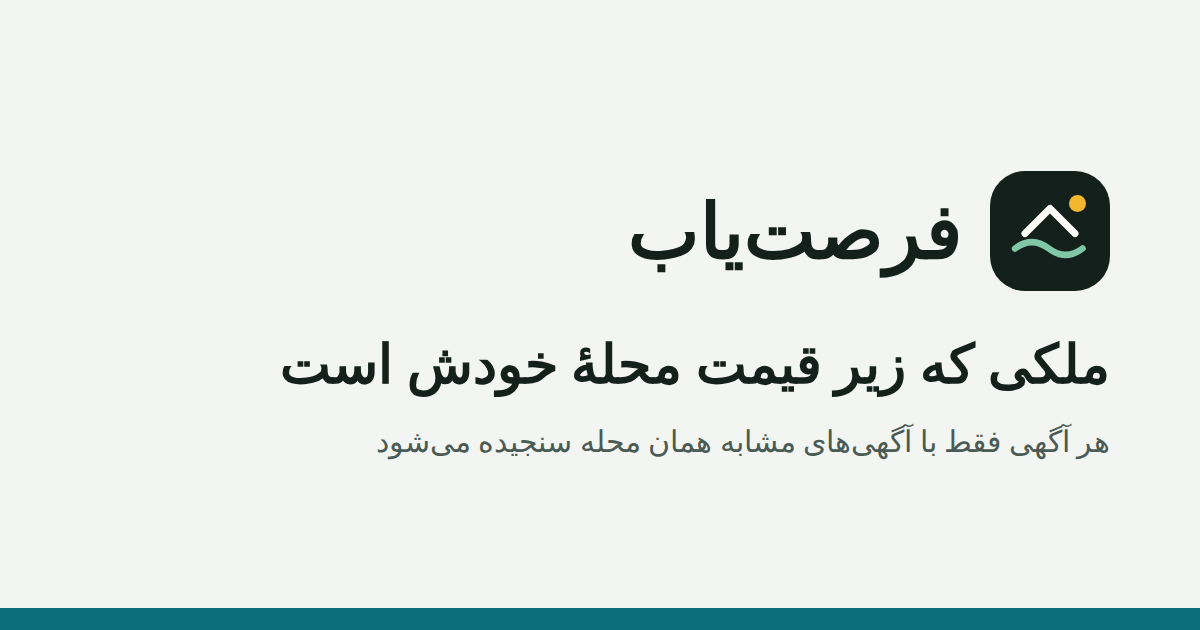
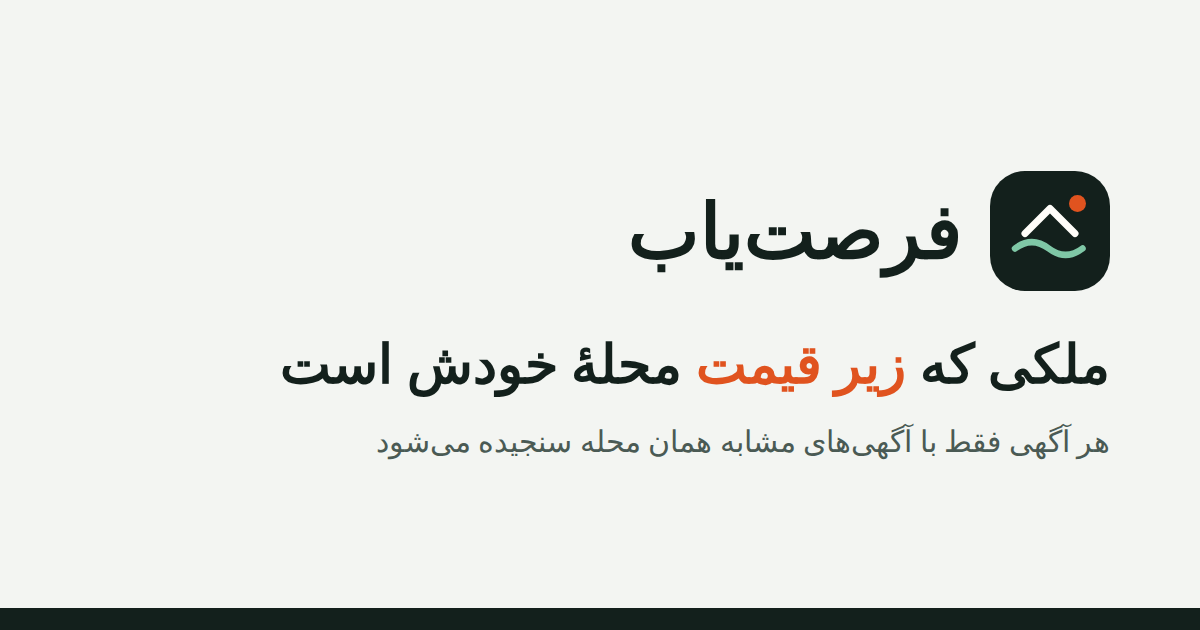
بازگشت رنگ نارنجی گرم برای «زیر قیمت»، دکمههای اصلی و نقطهٔ لوگو (جلب توجه)، روی همان زمینهٔ سنگی خنک؛ زعفرانی فقط برای برچسب فرصت طلایی
Claude-Session: https://claude.ai/code/session_01KKj2fgjXQ9aW6joweZhZpV

Changed region(s): [[0.0, 0.9651, 1.0, 1.0], [0.5858, 0.5429, 0.7708, 0.6333], [0.8942, 0.3016, 0.925, 0.3317]]

diff --git a/assets/css/style.css b/assets/css/style.css
@@ -8,11 +8,11 @@
   font-weight: 100 900; font-style: normal; font-display: swap;
 }
 :root {
-  /* سنگ خنک، جوهر، سبز برند، فیروزهای برای کنشها و زعفرانی برای فرصتها */
+  /* سنگ خنک، جوهر، سبز برند؛ نارنجی گرم برای کنش و «زیر قیمت» (جلب توجه)، زعفرانی برای فرصت طلایی */
   --paper: #f3f5f2; --paper-2: #e8ece6; --surface: #ffffff; --sunk: #edf1eb;
   --ink: #12211d; --ink-2: #3d4b45; --muted: #69766f; --line: #dbe1d8; --line-2: #c7cfc4;
   --forest: #1d4a3c; --forest-2: #2c6a55; --moss: #e0ebe4;
-  --narenj: #0b6f79; --narenj-2: #08585f; --narenj-soft: #dbeef0;
+  --narenj: #e0531f; --narenj-2: #c0410f; --narenj-soft: #fde6db;
   --sea: #2a6d8c; --sea-soft: #dcebf1; --gold: #a87a10;
   --great: #17784a; --good: #4c9a5c; --fair: #8b8f86; --high: #c97a1f; --over: #bf3a2b;
   --sale: #1d4a3c; --rent: #6d3fb4; --daily: #c8366b;
@@ -30,7 +30,7 @@
   --paper: #0d1311; --paper-2: #121a17; --surface: #151e1b; --sunk: #101714;
   --ink: #ece6da; --ink-2: #b7c0b9; --muted: #838d86; --line: #243029; --line-2: #2f3d36;
   --forest: #7fc7a6; --forest-2: #9bd8bb; --moss: #1b2a24;
-  --narenj: #4fc0c9; --narenj-2: #7ad3da; --narenj-soft: #11302f;
+  --narenj: #f07a4b; --narenj-2: #ff9468; --narenj-soft: #3a2018;
   --sea: #6cb4d4; --sea-soft: #13262e; --sale: #7fc7a6; --rent: #b293ea; --daily: #f07aa3;
   --on-dark: #0d1311;
   --shadow-2: 0 2px 4px rgba(0,0,0,.3), 0 12px 32px -12px rgba(0,0,0,.6);
@@ -136,7 +136,7 @@ p { margin: 0; }
 .hero { position: relative; padding: 48px 0 0; overflow: clip; }
 .hero__grid { position: relative; z-index: 2; display: grid; grid-template-columns: minmax(0, 1.25fr) minmax(0, .9fr); gap: 48px; align-items: center; }
 .hero h1 { font-size: clamp(34px, 4.3vw, 64px); font-weight: 900; line-height: 1.18; margin: 16px 0 18px; text-wrap: balance; }
-.hero h1 .accent { color: inherit; }
+.hero h1 .accent { color: var(--narenj); }
 .hero h1 .soft { color: var(--forest); }
 .hero__lead { font-size: 17px; color: var(--ink-2); max-width: 560px; }
 .search-card { margin-top: 28px; background: var(--surface); border-radius: var(--r-xl); box-shadow: var(--shadow-3); border: 1px solid var(--line); padding: 10px; }
@@ -216,7 +216,7 @@ p { margin: 0; }
 .card__fav { position: absolute; top: 10px; inset-inline-end: 10px; width: 38px; height: 38px; border-radius: 50%; background: rgba(255,253,249,.92); display: grid; place-items: center; color: #13201c; transition: transform .2s; z-index: 2; }
 .card__fav svg { width: 19px; height: 19px; }
 @media (hover: hover) { .card__fav:hover { transform: scale(1.1); } }
-.card__fav.is-on { color: #0b6f79; }
+.card__fav.is-on { color: #e0531f; }
 .card__fav.is-on svg { fill: currentColor; }
 .card__body { padding: 16px 18px 14px; display: flex; flex-direction: column; gap: 4px; flex: 1; }
 .card__price { display: flex; align-items: baseline; gap: 6px; flex-wrap: wrap; }
@@ -290,7 +290,7 @@ p { margin: 0; }
 .pin--car { border-color: var(--sea); } .pin--car::after { border-top-color: var(--sea); }
 .is-hot .pin { background: var(--ink); color: var(--paper); transform: translate(-50%, -100%) scale(1.15); }
 .cluster { display: inline-flex; align-items: center; gap: 6px; transform: translate(-50%, -50%); white-space: nowrap; background: #13201c; color: #fffdf9; border-radius: 999px; padding: 4px 14px 4px 4px; font: 700 12.5px Vazirmatn, sans-serif; box-shadow: 0 0 0 5px rgba(19,32,28,.16), 0 6px 16px rgba(0,0,0,.25); cursor: pointer; transition: transform .15s; }
-.cluster b { background: #0b6f79; color: #fff; border-radius: 999px; min-width: 26px; height: 26px; display: grid; place-items: center; padding: 0 7px; }
+.cluster b { background: #e0531f; color: #fff; border-radius: 999px; min-width: 26px; height: 26px; display: grid; place-items: center; padding: 0 7px; }
 @media (hover: hover) { .cluster:hover { transform: translate(-50%, -50%) scale(1.07); } }
 
 /* ---------- صفحه آگهی ---------- */
@@ -377,12 +377,12 @@ p { margin: 0; }
 .broker { display: grid; grid-template-columns: 1.1fr 1fr; gap: 56px; align-items: center; }
 .broker h2 { font-size: clamp(28px, 3.4vw, 46px); font-weight: 900; margin: 12px 0 14px; }
 .broker > div > p { color: rgba(255,253,249,.75); font-size: 16px; }
-.broker .kicker { color: #7fd3d9; }
+.broker .kicker { color: #ff9a70; }
 .broker__cta { display: flex; gap: 10px; flex-wrap: wrap; margin-top: 26px; }
 .broker__cta .btn--line { background: transparent; color: #fffdf9; border-color: rgba(255,255,255,.3); }
 .steps { list-style: none; padding: 0; margin: 0; display: grid; gap: 12px; counter-reset: s; }
 .steps li { counter-increment: s; display: grid; grid-template-columns: 48px 1fr; gap: 14px; align-items: center; padding: 16px; background: rgba(255,255,255,.05); border-radius: var(--r-lg); border: 1px solid rgba(255,255,255,.08); }
-.steps li::before { content: counter(s, persian); width: 48px; height: 48px; border-radius: 50%; background: #0b6f79; color: #fff; display: grid; place-items: center; font-weight: 900; font-size: 19px; }
+.steps li::before { content: counter(s, persian); width: 48px; height: 48px; border-radius: 50%; background: #e0531f; color: #fff; display: grid; place-items: center; font-weight: 900; font-size: 19px; }
 .steps b { display: block; font-size: 15.5px; }
 .steps span { font-size: 13.5px; color: rgba(255,253,249,.7); }
 

diff --git a/assets/js/admin.js b/assets/js/admin.js
@@ -26,7 +26,7 @@
     catch { $("#root").innerHTML = `<div class="login"><div class="panel" style="max-width:520px"><h2>پنل مدیریت فقط با سرور محلی کار میکند</h2><p class="muted">فایل <b>start-windows.bat</b> (ویندوز) یا <b>start-mac-linux.sh</b> را اجرا کنید؛ سپس نشانی <code>http://127.0.0.1:8000/admin.html</code> باز میشود.</p></div></div>`; return; }
     const setup = !cfg.admin_ready;
     $("#root").innerHTML = `<div class="login"><form id="lf">
-      <div class="brand"><svg class="brand__mark" viewBox="0 0 48 48"><rect width="48" height="48" rx="14" fill="#13201c"/><path d="M10 31c4.5-3.4 9-3.4 13.5 0s9 3.4 13.5 0" stroke="#7fc7a6" stroke-width="2.6" fill="none" stroke-linecap="round"/><path d="M14 25l10-10 10 10" stroke="#fffdf9" stroke-width="2.8" fill="none" stroke-linecap="round" stroke-linejoin="round"/><circle cx="35" cy="13" r="3.4" fill="#f2b72f"/></svg><span class="brand__txt"><b>پنل مدیریت</b><small>${esc(cfg.site.name)}</small></span></div>
+      <div class="brand"><svg class="brand__mark" viewBox="0 0 48 48"><rect width="48" height="48" rx="14" fill="#13201c"/><path d="M10 31c4.5-3.4 9-3.4 13.5 0s9 3.4 13.5 0" stroke="#7fc7a6" stroke-width="2.6" fill="none" stroke-linecap="round"/><path d="M14 25l10-10 10 10" stroke="#fffdf9" stroke-width="2.8" fill="none" stroke-linecap="round" stroke-linejoin="round"/><circle cx="35" cy="13" r="3.4" fill="#e0531f"/></svg><span class="brand__txt"><b>پنل مدیریت</b><small>${esc(cfg.site.name)}</small></span></div>
       <h2 style="font-size:20px">${setup ? "تعیین رمز مدیر" : "ورود"}</h2>
       ${setup ? '<p class="muted small">اولین ورود است. رمزی دستکم ۶ نویسه انتخاب کنید و آن را جایی نگه دارید.</p>' : ""}
       <input class="input" type="password" name="pw" placeholder="رمز" required minlength="6" autocomplete="${setup ? "new-password" : "current-password"}">
@@ -53,7 +53,7 @@
     try { S = await api("admin/state"); } catch (e) { if (e.message !== "401") toast(e.message); return; }
     $("#root").innerHTML = `<div class="adm">
       <aside class="side">
-        <a class="brand" href="./" target="_blank"><svg class="brand__mark" viewBox="0 0 48 48"><rect width="48" height="48" rx="14" fill="#fffdf9" fill-opacity=".08"/><path d="M10 31c4.5-3.4 9-3.4 13.5 0s9 3.4 13.5 0" stroke="#7fc7a6" stroke-width="2.6" fill="none" stroke-linecap="round"/><path d="M14 25l10-10 10 10" stroke="#fffdf9" stroke-width="2.8" fill="none" stroke-linecap="round" stroke-linejoin="round"/><circle cx="35" cy="13" r="3.4" fill="#f2b72f"/></svg><span class="brand__txt"><b>${esc(S.site.name)}</b><small>پنل مدیریت</small></span></a>
+        <a class="brand" href="./" target="_blank"><svg class="brand__mark" viewBox="0 0 48 48"><rect width="48" height="48" rx="14" fill="#fffdf9" fill-opacity=".08"/><path d="M10 31c4.5-3.4 9-3.4 13.5 0s9 3.4 13.5 0" stroke="#7fc7a6" stroke-width="2.6" fill="none" stroke-linecap="round"/><path d="M14 25l10-10 10 10" stroke="#fffdf9" stroke-width="2.8" fill="none" stroke-linecap="round" stroke-linejoin="round"/><circle cx="35" cy="13" r="3.4" fill="#e0531f"/></svg><span class="brand__txt"><b>${esc(S.site.name)}</b><small>پنل مدیریت</small></span></a>
         ${TABS.map(([k, n]) => `<button data-tab="${k}" class="${tab === k ? "is-on" : ""}">${n}${k === "excluded" && S.stats.excluded ? `<span class="badge">${fa(S.stats.excluded)}</span>` : ""}${k === "support" && S.tickets_unread ? `<span class="badge">${fa(S.tickets_unread)}</span>` : ""}</button>`).join("")}
         <div class="side__foot"><a href="./" target="_blank">مشاهده سایت ↗</a><a href="#" id="logout">خروج</a></div>
       </aside>

diff --git a/assets/js/ui.js b/assets/js/ui.js
@@ -91,7 +91,7 @@ const UI = (() => {
     else if (k === "apartment" || k === "office") obj = `<g transform="translate(150 40)"><rect width="100" height="162" rx="4" fill="#fffdf9"/>${Array.from({ length: 6 }, (_, r) => [0, 1, 2].map((c) => `<rect x="${12 + c * 28}" y="${12 + r * 24}" width="20" height="14" rx="2" fill="${(r + c + v) % 3 ? "#a9cfdc" : "#f2c48d"}"/>`).join("")).join("")}</g>`;
     else if (k === "suite") obj = `<g transform="translate(150 112)"><rect width="100" height="80" rx="4" fill="#fffdf9"/><rect y="-8" width="100" height="10" rx="3" fill="${roof}"/><rect x="14" y="20" width="30" height="24" rx="2" fill="#a9cfdc"/><rect x="58" y="30" width="26" height="50" rx="2" fill="#7a4a2a"/></g>`;
     else if (k === "shop") obj = `<g transform="translate(130 92)"><rect width="140" height="100" rx="3" fill="#fffdf9"/>${[0, 1, 2, 3, 4, 5, 6].map((i) => `<path d="M${i * 20} 0 h20 l-3 16 h-14z" fill="${i % 2 ? "#fffdf9" : roof}"/>`).join("")}<rect x="14" y="40" width="70" height="60" fill="#cfe4ea"/><rect x="94" y="48" width="32" height="52" fill="#45524c"/></g>`;
-    else if (k === "garden") obj = Array.from({ length: 9 }, (_, i) => `<g transform="translate(${40 + i * 40} ${166 + (i % 2) * 18})"><rect x="-3" width="6" height="22" fill="#7a4a2a"/><circle r="18" cy="-6" fill="${g2}"/><circle r="4" cx="6" cy="-10" fill="#0b6f79"/></g>`).join("");
+    else if (k === "garden") obj = Array.from({ length: 9 }, (_, i) => `<g transform="translate(${40 + i * 40} ${166 + (i % 2) * 18})"><rect x="-3" width="6" height="22" fill="#7a4a2a"/><circle r="18" cy="-6" fill="${g2}"/><circle r="4" cx="6" cy="-10" fill="#e0531f"/></g>`).join("");
     else if (k === "land") obj = `<g stroke="#7a4a2a" stroke-width="3">${Array.from({ length: 11 }, (_, i) => `<line x1="${30 + i * 34}" y1="172" x2="${30 + i * 34}" y2="202"/>`).join("")}<line x1="30" y1="180" x2="370" y2="180"/><line x1="30" y1="194" x2="370" y2="194"/></g>`;
     return `<svg viewBox="0 0 400 240" preserveAspectRatio="xMidYMid slice" role="img" aria-label="${esc(l.title)}"><defs><linearGradient id="${id}" x1="0" y1="0" x2="0" y2="1"><stop offset="0" stop-color="${s1}"/><stop offset="1" stop-color="${s2}"/></linearGradient></defs><rect width="400" height="240" fill="url(#${id})"/><circle cx="${sx}" cy="50" r="20" fill="#f6d27a" opacity=".85"/>${ground}${obj}</svg>`;
   }

diff --git a/assets/js/app.js b/assets/js/app.js
@@ -1033,7 +1033,7 @@ const App = (() => {
     document.title = `${l.title} | ${cfg.site.name}`;
     const cc = UI.cityOf(l.city_key), pos = l.latlng_exact || !cc ? [l.lat, l.lng] : [cc.lat, cc.lng];
     const mini = UI.makeMap($("#mini"), { center: pos, zoom: l.latlng_exact ? 14 : 12, wheel: false });
-    if (mini) L.circle(pos, { radius: l.latlng_exact ? 150 : 2200, color: "#0b6f79", weight: 2, fillOpacity: 0.1, dashArray: l.latlng_exact ? null : "6 6" }).addTo(mini);
+    if (mini) L.circle(pos, { radius: l.latlng_exact ? 150 : 2200, color: "#e0531f", weight: 2, fillOpacity: 0.1, dashArray: l.latlng_exact ? null : "6 6" }).addTo(mini);
     $("#gal").addEventListener("click", (e) => { const b = e.target.closest("[data-img]"); if (b) lightbox(l, imgs.length ? Math.min(+b.dataset.img, imgs.length - 1) : +b.dataset.img); });
     $("#adFav").addEventListener("click", (e) => { toggleFav(l.id); e.currentTarget.querySelector("span").textContent = state.favs.has(l.id) ? "ذخیره شد" : "ذخیره"; });
     $("#adShare").addEventListener("click", async () => {

diff --git a/index.html b/index.html
@@ -23,7 +23,7 @@
           <rect width="48" height="48" rx="14" fill="#13201c"/>
           <path d="M10 31c4.5-3.4 9-3.4 13.5 0s9 3.4 13.5 0" stroke="#7fc7a6" stroke-width="2.6" fill="none" stroke-linecap="round"/>
           <path d="M14 25l10-10 10 10" stroke="#fffdf9" stroke-width="2.8" fill="none" stroke-linecap="round" stroke-linejoin="round"/>
-          <circle cx="35" cy="13" r="3.4" fill="#f2b72f"/>
+          <circle cx="35" cy="13" r="3.4" fill="#e0531f"/>
         </svg>
         <span class="brand__txt"><b data-site="name">فرصتیاب</b><small data-site="tagline">ملک زیر قیمت، محله به محله</small></span>
       </a>
